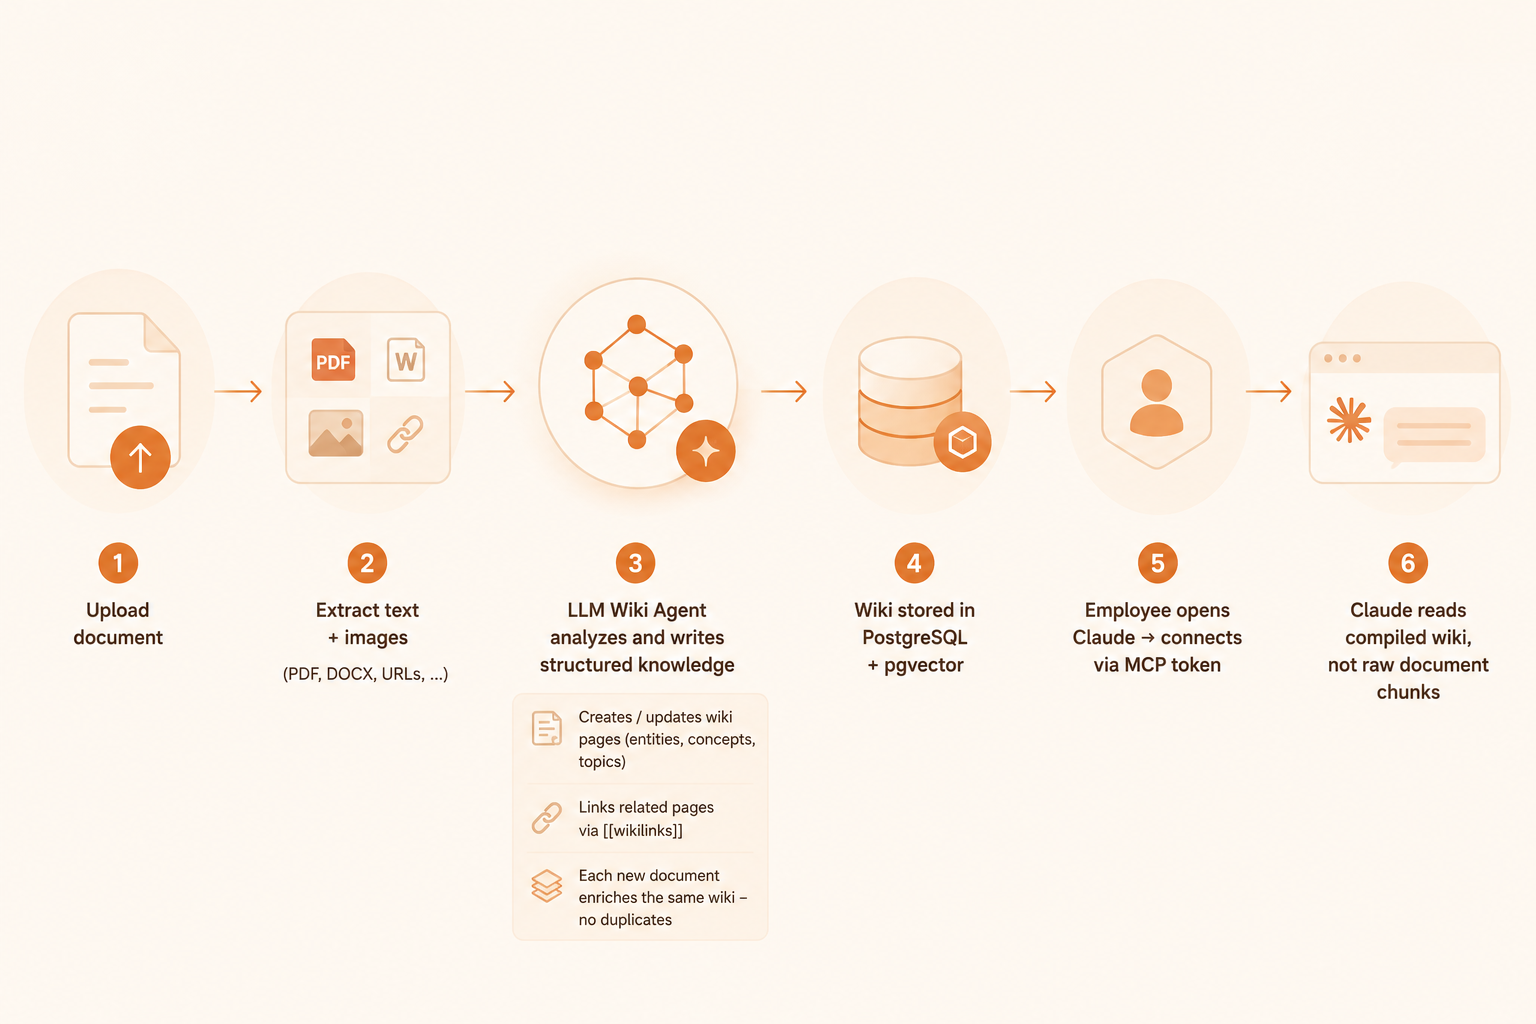
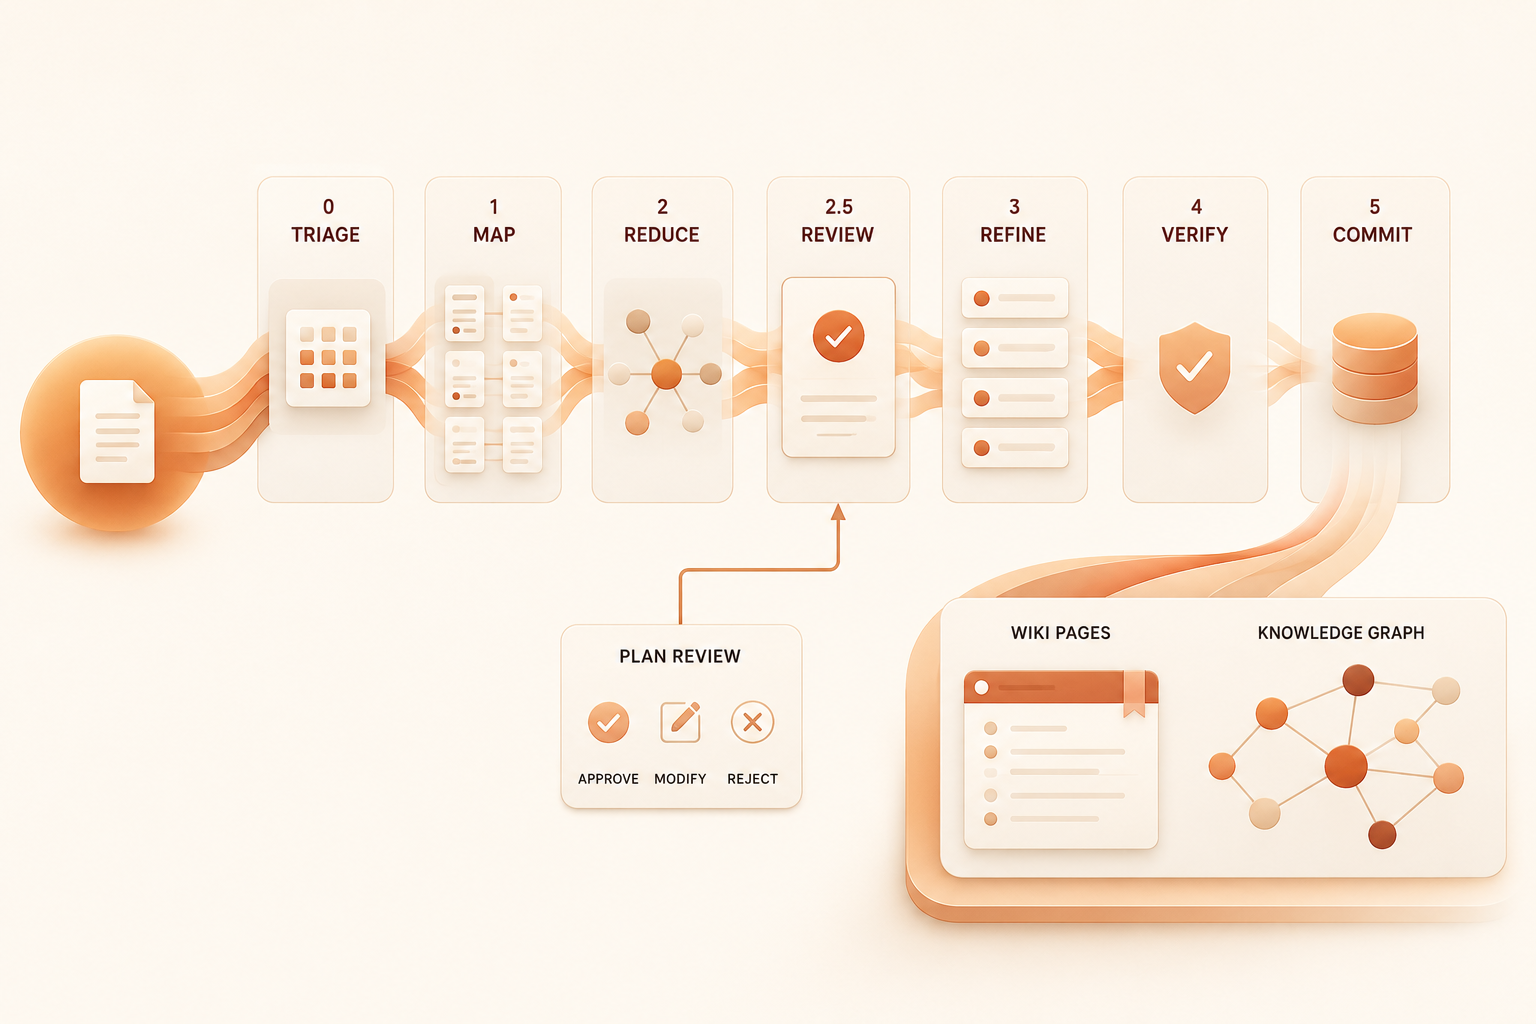
update: README.md

diff --git a/docs/WIKI.md b/docs/WIKI.md
@@ -6,34 +6,117 @@ The Arkon wiki is the primary knowledge surface. Instead of storing raw document
 
 ## How compilation works
 
-When you upload a document, the background worker runs a two-phase process:
+When you upload a document, the background worker runs the **MRP pipeline** — a five-phase deterministic process that guarantees every section of the document is read and every claim is traceable back to its source.
 
-### Phase 1 — Pre-analysis
+```
+Phase 0: Triage   → classify document size/strategy
+Phase 1: MAP      → chunk document + parallel LLM extraction per chunk
+Phase 2: REDUCE   → entity dedup + KB reconciliation → Compilation Plan
+Phase 2.5: Review → human approves / modifies / rejects the plan
+Phase 3: REFINE   → parallel page writers (one per planned page)
+Phase 4: VERIFY   → citation check + coverage check + conflict check
+Phase 5: COMMIT   → write pages to DB + embed + regenerate index
+```
 
-A single fast LLM call reads the first ~30K characters of the document and returns a structural map:
-- Document type and primary language
-- Key entities, concepts, and themes
-- Which existing wiki pages are likely to be updated
-- Which new pages should probably be created
+### Phase 0 — Triage
 
-This map is injected into the agent's initial context, giving it a head start before the tool-calling loop begins.
+Classifies the document to choose the right processing strategy based on length:
 
-### Phase 2 — Agent loop
+| Strategy | Document size | Description |
+|---|---|---|
+| `single_pass` | < 30K chars | Entire document fits in one extraction call |
+| `standard` | 30K–200K chars | Split into ~20K-char chunks along section headings |
+| `hierarchical` | > 200K chars | Same as standard but with additional context stitching |
 
-A tool-calling LLM agent runs in a loop. It has access to:
+### Phase 1 — MAP
+
+The document is split into chunks aligned to section headings (from `outline_json`). Each chunk is ~20K characters with a 1K-char overlap prefix from the previous section. Chunks are processed in parallel (up to 6 at once).
+
+Each chunk extraction call returns structured JSON:
+
+```json
+{
+  "entities": [{ "name": "...", "type": "person|org|product|...", "local_offset": 0 }],
+  "concepts": [{ "term": "...", "definition_excerpt": "...", "local_offset": 0 }],
+  "claims":   [{ "statement": "...", "subject": "...", "local_offset": 0, "evidence_length": 200 }],
+  "relations": [{ "from": "...", "to": "...", "type": "..." }],
+  "topics":   ["..."]
+}
+```
+
+`local_offset` values are converted to `absolute_offset` (byte position in the original document) so every claim can be traced back to its exact source excerpt. Each chunk's result is saved to `source_chunk_extracts` immediately — if the worker crashes, MAP resumes from where it left off.
+
+### Phase 2 — REDUCE
+
+All chunk extracts are merged into a unified knowledge graph:
+
+1. **Exact dedup** — normalize entity names (lowercase + strip punctuation), group duplicates
+2. **Embedding dedup** — cosine similarity between entity name vectors; auto-merge above 0.90, LLM disambiguates 0.75–0.90
+3. **KB reconciliation** — semantic search against existing wiki pages per entity:
+   - sim ≥ 0.85 → `UPDATE` candidate (entity has an existing page)
+   - sim 0.60–0.85 → LLM confirms whether to merge or create new
+   - sim < 0.60 → `CREATE` candidate
+4. **Planning call** — a single LLM call produces the **Compilation Plan**: a prioritized list of pages to create or update, each with entity coverage and cross-link targets
+
+The plan is saved to `source_compilation_plans` with `status = pending_review`.
+
+### Phase 2.5 — Human plan review
+
+Before any pages are written, an editor reviews the Compilation Plan:
+
+- **Portal:** Knowledge Base → source row with "Review Plan" status → click to open the plan review dialog
+- **API:** `GET /api/sources/{id}/plan` → `POST /api/sources/{id}/plan/approve` or `/reject`
+
+The plan shows every page that will be created or updated, its type, and the entities it will cover. Editors can approve as-is, submit a modified plan (reorder, rename, remove pages), or reject with a note.
+
+**Auto-approve** is available for CI/CD or trusted pipelines: set `MRP_AUTO_APPROVE_PLAN=true` in your environment.
+
+### Phase 3 — REFINE
+
+Each planned page gets its own writer. Writers run in parallel (up to 4 at once). Every writer receives pre-assembled evidence — the relevant claims with their source excerpts — so it never needs to scan the full document.
+
+**Simple writer** (≤ 8 evidence items, existing page ≤ 3K chars): a single `llm.generate()` call.
+
+**Complex writer** (larger pages): a mini agent loop (max 10 steps) with tools:
 
 | Tool | Purpose |
 |---|---|
-| `read_wiki_index` | See the full catalog of existing pages |
-| `read_wiki_page` | Read any existing page in full |
-| `search_wiki` | Semantic search across existing pages |
-| `read_source_excerpt` | Read any portion of the source document by character offset |
-| `create_page` | Create a new wiki page |
-| `update_page` | Update an existing page with new content |
-| `append_log` | Add an entry to the wiki activity log |
-| `finish` | Signal compilation complete |
+| `read_kb_page` | Read any existing wiki page for cross-referencing |
+| `read_source_excerpt` | Read more context from the source document |
+| `finish` | Submit the completed page content |
 
-The agent decides which pages to create, which to update, and how to write the content. Pages cross-reference each other using `[[wikilinks]]`. The same wiki pages are updated as more documents are added — knowledge accumulates in place rather than creating duplicates.
+Every factual claim in the written content is marked with a `[^N]` footnote citation.
+
+### Phase 4 — VERIFY
+
+Three non-blocking checks run after REFINE:
+
+1. **Citation verification** — each `[^N]` claim is checked against its source excerpt by the LLM. Verdicts: `SUPPORTED` (no change), `PARTIAL` (caveat added), `NOT_SUPPORTED` (marked `[unverified]`), `CONTRADICTED` (flagged with warning marker).
+
+2. **Coverage check** — entities mentioned ≥ 3 times in chunk extracts but not covered by any planned page are logged as warnings.
+
+3. **Conflict check** — new page content is embedded and compared against existing KB pages. Semantically similar pages (sim > 0.80) are checked for factual contradictions by the LLM and logged.
+
+All three checks are informational — they never block the pipeline.
+
+### Phase 5 — COMMIT
+
+All verified pages are written to the database in a single atomic transaction. For each page:
+- `CREATE` → `wiki_service.apply_create()`
+- `UPDATE` → `wiki_service.apply_update()` (falls back to create if the page was deleted)
+
+After all pages are flushed, the wiki index is regenerated, an activity log entry is appended, and the source is marked `ready`.
+
+### Resume behavior
+
+The field `source.pipeline_phase` tracks which phase completed last. If the worker crashes, the next retry picks up from the right phase:
+
+| `pipeline_phase` | Behavior on retry |
+|---|---|
+| `map` | Skip chunks already extracted, process remaining |
+| `reduce` | Re-run REDUCE (all chunks already done) |
+| `plan_review` | Return existing plan — do not re-run MAP+REDUCE |
+| `refine` / `verify` / `commit` | Re-run REFINE from plan (in-memory results are regenerated) |
 
 ### Page types
 

diff --git a/docs/ARCHITECTURE.md b/docs/ARCHITECTURE.md
@@ -69,21 +69,28 @@ FastAPI application serving two protocols simultaneously:
 Two arq (Redis-based) worker pools:
 
 **Wiki Worker** (`WorkerSettings`):
-- `ingest_file_task` — extract text and images from uploaded files
-- `ingest_url_task` — scrape and extract text from URLs
-- `compile_wiki_task` — run the LLM wiki agent to compile a source into wiki pages
+- `ingest_file_task` — extract text and images from uploaded files, then enqueue `ingest_map_reduce_task`
+- `ingest_url_task` — scrape and extract text from URLs, then enqueue `ingest_map_reduce_task`
+- `ingest_map_reduce_task` — MRP Phase 0-2: triage, parallel chunk extraction (MAP), entity dedup + KB reconciliation + compilation plan (REDUCE)
+- `ingest_refine_task` — MRP Phase 3-5: parallel page writers (REFINE), citation/coverage/conflict checks (VERIFY), atomic DB write (COMMIT)
 
 **Skill Worker** (`SkillWorkerSettings`):
 - `process_skill_task` — process uploaded skill packages
 
-### LLM Wiki Agent (`app/ai/`)
-The core compilation pipeline:
+### MRP Pipeline (`app/ai/mrp/`)
+The core compilation pipeline — MAP-REDUCE-PLAN-REFINE-VERIFY:
 
-1. **Pre-analysis** (`wiki_analyzer.py`) — a cheap single LLM call that reads the first ~30K characters of a document and returns a structural map: document type, key entities, related existing wiki pages to update, new pages to create.
+1. **Triage + MAP** (`mapper.py`) — classifies document size (single_pass / standard / hierarchical), splits into ~20K-char chunks aligned to section headings, runs parallel LLM extraction per chunk. Each chunk produces structured JSON (entities, concepts, claims with `absolute_offset` back to source). Results saved to `source_chunk_extracts` incrementally for crash resume.
 
-2. **Agent loop** (`wiki_agent.py`) — a tool-calling agent that reads the source, searches the existing wiki, and calls `create_page` / `update_page` tools to write or update wiki pages. Runs until the agent calls `finish()` or hits the turn limit.
+2. **REDUCE** (`reducer.py`) — merges all chunk extracts: exact entity dedup → embedding cosine similarity dedup (auto-merge > 0.90, LLM disambiguates 0.75–0.90) → KB reconciliation via semantic search → single planning LLM call → `SourceCompilationPlan` saved with `status=pending_review`.
 
-3. **Agent tools** (`wiki_agent_tools.py`) — the tool catalog available to the agent: `read_wiki_index`, `read_wiki_page`, `search_wiki`, `read_source_excerpt`, `create_page`, `update_page`, `append_log`, `finish`.
+3. **Human review (Phase 2.5)** — editor approves/modifies/rejects the plan via portal or API. Controlled by `mrp_auto_approve_plan` config for automated pipelines.
+
+4. **REFINE** (`writer.py`) — parallel page writers (up to 4 concurrent). Simple writer (≤ 8 evidence items): 1 LLM call. Complex writer: mini agent loop (max 10 steps, `read_kb_page` / `read_source_excerpt` / `finish` tools). All claims cited with `[^N]` footnotes.
+
+5. **VERIFY** (`verifier.py`) — citation verification (LLM checks each `[^N]` claim against source excerpt), coverage check (entities with ≥ 3 mentions not covered by any page), conflict check (semantic similarity + LLM contradiction detection against existing KB). All checks non-blocking.
+
+6. **COMMIT** (`pipeline.py`) — `apply_create` / `apply_update` per page, `upsert_page_embedding`, single atomic `session.commit()`, `regenerate_index`, `append_log`.
 
 ---
 
@@ -93,7 +100,9 @@ The core compilation pipeline:
 
 ```
 sources                    → uploaded documents (files or URLs)
-  └── source_departments   → which departments can access a source
+  ├── source_departments       → which departments can access a source
+  ├── source_chunk_extracts    → MAP output: per-chunk structured extraction (entities/claims/concepts)
+  └── source_compilation_plans → REDUCE output: planned pages to create/update (pending_review → approved → done)
 
 wiki_pages                 → compiled wiki articles
   ├── wiki_links           → [[wikilink]] graph edges between pages
@@ -117,6 +126,11 @@ skills                     → AI skill packages
 mcp_tokens                 → per-employee bearer tokens for MCP access
 audit_log                  → immutable activity log
 ```
+
+**Key fields on `sources` for pipeline tracking:**
+- `pipeline_strategy` — `single_pass | standard | hierarchical` (set by Phase 0 triage)
+- `pipeline_phase` — `map | reduce | plan_review | refine | verify | commit` (drives crash resume)
+- `status` — includes `plan_ready` (waiting for human review) in addition to `pending | processing | ready | error`
 
 ### Permission scoping
 
@@ -142,15 +156,28 @@ Worker: ingest_file_task
   → Extract text (pdfplumber / python-docx / html2text)
   → Vision model: caption embedded images (optional)
   → DB: Source(status=processing)
-  → Redis: enqueue compile_wiki_task
+  → Redis: enqueue ingest_map_reduce_task
 
-Worker: compile_wiki_task
-  → wiki_analyzer: single LLM call, structural pre-analysis
-  → wiki_agent loop:
-      LLM calls tools (search_wiki, read_wiki_page, create_page, update_page)
-      Each create/update writes a WikiPageRevision(change_type=agent_compile)
-  → DB: Source(status=ready)
-  → wiki_service.regenerate_index() + append_log()
+Worker: ingest_map_reduce_task   [Phase 0-2]
+  → Phase 0 (Triage): classify strategy (single_pass / standard / hierarchical)
+  → Phase 1 (MAP): chunk by section headings → parallel LLM extraction
+      Each chunk → SourceChunkExtract(status=done) saved incrementally
+  → Phase 2 (REDUCE): dedup entities → reconcile with KB → planning LLM call
+      → SourceCompilationPlan(status=pending_review)
+      → Source(status=plan_ready)   [if manual review]
+      → Redis: enqueue ingest_refine_task   [if mrp_auto_approve_plan=True]
+
+[Human review: GET /api/sources/{id}/plan → POST /api/sources/{id}/plan/approve]
+
+Worker: ingest_refine_task   [Phase 3-5]
+  → Phase 3 (REFINE): parallel page writers
+      Simple (≤8 evidence): 1 LLM call
+      Complex (>8 evidence): mini agent loop (read_kb_page, read_source_excerpt, finish)
+  → Phase 4 (VERIFY): citation check + coverage check + conflict check (non-blocking)
+  → Phase 5 (COMMIT): apply_create / apply_update per page
+      Each page → upsert_page_embedding
+      DB: Source(status=ready), SourceCompilationPlan(status=done)
+      wiki_service.regenerate_index() + append_log()
 ```
 
 ### Employee Claude query → MCP response
@@ -218,9 +245,15 @@ arkon/
 │   │   ├── audit_service.py      # log_audit()
 │   │   └── kb_service.py         # Source extraction helpers
 │   ├── ai/
-│   │   ├── wiki_agent.py         # LLM agent loop (compile_source_with_agent)
-│   │   ├── wiki_agent_tools.py   # Tool catalog for the wiki agent
-│   │   ├── wiki_analyzer.py      # Pre-analysis single LLM call
+│   │   ├── mrp/
+│   │   │   ├── mapper.py         # Phase 0 (triage) + Phase 1 (MAP: chunking, extraction)
+│   │   │   ├── reducer.py        # Phase 2 (REDUCE: dedup, KB reconcile, planning call)
+│   │   │   ├── writer.py         # Phase 3 (REFINE: simple + complex page writers)
+│   │   │   ├── verifier.py       # Phase 4 (VERIFY: citation, coverage, conflict checks)
+│   │   │   └── pipeline.py       # Phase 5 (COMMIT) + pipeline orchestrators
+│   │   ├── wiki_agent.py         # Legacy agent loop (kept for reference)
+│   │   ├── wiki_agent_tools.py   # Legacy tool catalog
+│   │   ├── wiki_analyzer.py      # Legacy pre-analysis call
 │   │   └── providers/            # Provider-agnostic LLM/embedding/vision wrappers
 │   └── mcp/
 │       ├── server.py             # FastMCP server factory (create_mcp_server)
@@ -230,7 +263,7 @@ arkon/
 │       ├── app/(portal)/         # Page routes (wiki, workspaces, knowledge, ...)
 │       └── components/           # UI components
 ├── alembic/
-│   └── versions/                 # Migration files (001 → 014)
+│   └── versions/                 # Migration files (001 → 020)
 ├── docker-compose.yml
 ├── Dockerfile
 ├── .env.docker.example     # Env template for Docker Compose

diff --git a/README.md b/README.md
@@ -31,7 +31,7 @@ Knowledge compounds. Every document you add enriches the existing wiki rather th
 ## Features
 
 ### Knowledge Wiki
-Documents are compiled into a persistent, interlinked wiki by an LLM agent - not just indexed. Each page covers a specific entity, concept, or topic. Pages cross-reference each other. The wiki grows smarter as more documents are added.
+Documents are compiled into a persistent, interlinked wiki — not just indexed. The MRP pipeline (MAP → REDUCE → PLAN → REFINE → VERIFY) reads every section of every document, traces every claim back to its source, and lets an editor review the compilation plan before any pages are written. Each page covers a specific entity, concept, or topic. Pages cross-reference each other. The wiki grows smarter as more documents are added.
 
 - Three-panel wiki browser: page tree, content, backlinks & outlinks
 - Full-text and semantic search
@@ -133,7 +133,7 @@ Add this to `claude_desktop_config.json` and restart Claude Desktop. The employe
 
 ## Roadmap
 
-- [x] LLM Wiki Agent - documents compiled into persistent, interlinked wiki
+- [x] MRP Pipeline - deterministic MAP→REDUCE→PLAN→REFINE→VERIFY compilation with full document coverage, traceable citations, and human plan review
 - [x] Wiki browser - three-panel layout with graph visualization
 - [x] MCP Server with scoped knowledge access
 - [x] Ingestion pipeline - PDF, DOCX, DOC, URLs, images with vision captions
@@ -142,7 +142,6 @@ Add this to `claude_desktop_config.json` and restart Claude Desktop. The employe
 - [x] AI Skills - versioned, department-scoped agent packages
 - [x] Full RBAC - department permissions + workspace membership roles
 - [x] Audit log
-- [ ] Regex Search for Human and AI
 - [ ] Arkon CLI - one-command employee setup
 - [ ] Notification system for draft review requests
 - [ ] Usage analytics dashboard